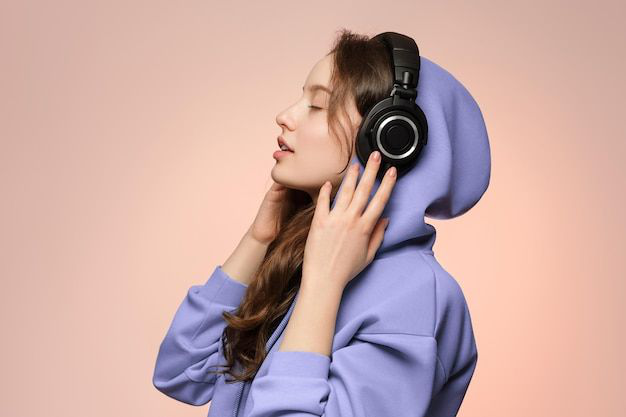
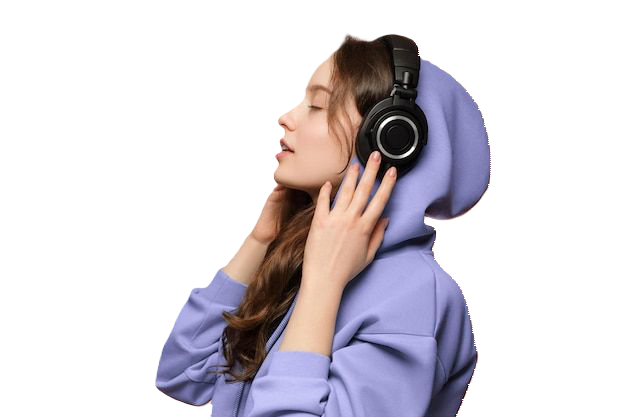
commerce update

diff --git a/src/App/UI/Components/Pages/Categories/Categories.js b/src/App/UI/Components/Pages/Categories/Categories.js
@@ -3,17 +3,18 @@ import { useNavigate } from 'react-router-dom';
 import './Categories.css';
 import Navbar from '../../Navbar/Navbar';
 import Footer from '../../Footer/Footer';
-import AOS from 'aos';
+// import AOS from 'aos';
 import 'aos/dist/aos.css';
 import Button from '../../Button/Button';
 import { categories } from '../../../../Constants/data';
 import ProductCard from '../../ProductCard/ProductCard';
+import female from '../../../../Images/png/female.png'
 
 function Categories() {
 
-    useEffect(() => {
-        AOS.init({ duration: 1000 });
-    }, []);
+    // useEffect(() => {
+    //     AOS.init({ duration: 1000 });
+    // }, []);
 
     return (
         <>
@@ -21,22 +22,44 @@ function Categories() {
             <div className='Categories'>
                 <div className='first-box'>
                     <div className='box-details'>
-                        <div className='boxep' data-aos='fade-up'>
+                        <div className='boxep'>
                             <div className='box-para'>
-                                <p>Grab Up to 50% Offon Selected Headphones</p>
+                                <p>Grab Up to 50% Off On Selected Headphones</p>
                             </div>
-                            <Button type='button' text={'Buy Now'} class='buy-now' />
+                            <div className='cat-button'>
+                                <Button type='button' text={'Buy Now'} class='buy-now' />
+                            </div>
+                        </div>
+                        <div className='picture'>
+                            <img src={female} alt='' className='cat-image' />
                         </div>
                     </div>
                 </div>
                 <div className='products'>
                     <div className='headphones'>
                         <div className='product-title'>
-                            <h4>Headphones For You</h4>
-                            <div className='product-card'>
-                                <ProductCard productImage='' productName='' price='' properties='' ratings='' type='' text={''} altText='Product Image' />
-                            </div>
+                            <h4>Headphones For You!</h4>
                         </div>
+                        <div className='product-card'>
+                            <ProductCard productImage='' productName='' price='' properties='' ratings='' type='' text={''} altText='Product Image' />
+                            <ProductCard productImage='' productName='' price='' properties='' ratings='' type='' text={''} altText='Product Image' />
+                            <ProductCard productImage='' productName='' price='' properties='' ratings='' type='' text={''} altText='Product Image' />
+                            <ProductCard productImage='' productName='' price='' properties='' ratings='' type='' text={''} altText='Product Image' />
+                            <ProductCard productImage='' productName='' price='' properties='' ratings='' type='' text={''} altText='Product Image' />
+                            <ProductCard productImage='' productName='' price='' properties='' ratings='' type='' text={''} altText='Product Image' />
+                        </div>
+                    </div>
+                    <div className='similar'>
+                        <div className='similar-title'>
+                            <h4>Similar Items You Might Like</h4>
+                        </div>
+                        <div className='similar-card'></div>
+                    </div>
+                    <div className='recently'>
+                        <div className='recently-title'>
+                            <h4>Recently viewed</h4>
+                        </div>
+                        <div className='recently-card'></div>
                     </div>
                 </div>
             </div>

diff --git a/src/App/UI/Components/Pages/Categories/Categories.css b/src/App/UI/Components/Pages/Categories/Categories.css
@@ -1,0 +1,87 @@
+.first-box {
+    justify-content: center;
+    align-items: center;
+    background-color: rgb(238, 238, 201);
+    margin-left: 104.5px;
+    margin-right: 104.5px;
+}
+
+.box-details {
+    display: flex;
+    gap: 300px;
+}
+
+.boxep {
+    margin-top: 2px;
+    margin-left: 90px;
+    padding: 10px;
+}
+
+.picture img {
+    max-width: 350px;
+}
+
+.box-para {
+    max-width: 370px;
+}
+
+.box-para p {
+    font-size: 30px;
+    font-weight: 650;
+    color: rgb(3, 58, 3);
+}
+
+.cat-button {
+    margin-top: -10px
+}
+
+.products {
+    margin-left: 104.5px;
+    margin-top: 50px;
+}
+
+.product-card {
+    display: flex;
+}
+
+.product-title h4 {
+    font-size: 20px;
+    font-family: 'Franklin Gothic Medium', 'Arial Narrow', Arial, sans-serif;
+}
+
+.recently-title h4 {
+    font-size: 20px;
+    font-family: 'Franklin Gothic Medium', 'Arial Narrow', Arial, sans-serif;
+}
+
+.similar-title h4 {
+    font-size: 20px;
+    font-family: 'Franklin Gothic Medium', 'Arial Narrow', Arial, sans-serif;
+}
+
+.picture {
+    position: relative;
+    display: inline-block;
+}
+
+.cat-image {
+    display: block;
+    width: 100%;
+    height: auto;
+    object-fit: cover;
+}
+
+/* .picture::before {
+    content: '';
+    position: absolute;
+    top: 0;
+    left: 0;
+    width: 100%;
+    background-color: inherit;
+    z-index: 0;
+} */
+
+.cat-image {
+    position: relative;
+    z-index: 1;
+}

diff --git a/src/App/UI/Components/Navbar/Navbar.js b/src/App/UI/Components/Navbar/Navbar.js
@@ -5,19 +5,19 @@ import { RxPerson } from "react-icons/rx";
 import { IoSearchOutline } from "react-icons/io5";
 import pageLogo from "../../../Images/png/17201701.png";
 import { BsTelephone } from "react-icons/bs";
-// import { useNavigate } from 'react-router-dom';
-//import { BrowserRouter as Router, Routes, Route, Link, useNavigate } from 'react-router-dom';
+import { useNavigate } from 'react-router-dom';
+// import { BrowserRouter as Router, Routes, Route, Link, useNavigate } from 'react-router-dom';
 
 function Navbar() {
 
     // const navigate = useNavigate();
 
-    // const handleNavigation = () => {
-    //     navigate('/home');
+    // const handleHomeClick = () => {
+    //     navigate('/');
     // };
 
-    
-// onMouseEnter={toggleDropdown} onMouseLeave={toggleDropdown}
+
+    // onMouseEnter={toggleDropdown} onMouseLeave={toggleDropdown}
     // const [isDropdownOpen, setIsDropdownOpen] = useState(false);
 
     // const toggleDropdown = () => {
@@ -66,7 +66,7 @@ function Navbar() {
 
                 </div>
                 <div className='real-content'>
-                    <a><img src={pageLogo} alt='' height="100px" width="100px"  /></a>
+                    <a><img src={pageLogo} alt='' height="100px" width="100px" /></a>
 
                     <div className='nav-links'>
                         <nav>

diff --git a/src/App/UI/Components/Pages/Home/Home.css b/src/App/UI/Components/Pages/Home/Home.css
@@ -15,7 +15,7 @@
 }
 
 .home-content {
-    background: url('https://t3.ftcdn.net/jpg/06/28/25/36/360_F_628253694_Czf6Y1SnQnIVUAL0tsOWXh2loOdsIFzS.jpg');
+    background: url('https://assets-global.website-files.com/63e857eaeaf853471d5335ff/63e9b930e006824963189865_bg-stage.png');
     background-size: cover;
     background-position: center;
     background-repeat: no-repeat;
@@ -102,6 +102,7 @@
     align-items: center;
     justify-content: center;
     margin-left: -102.5px;
+    color: #797777;
 }
 
 .info-cards {

diff --git a/src/App/UI/AppEntry.js b/src/App/UI/AppEntry.js
@@ -1,5 +1,5 @@
 import React from 'react';
-//import IndexRouter from '../Route/IndexRouter';
+import IndexRouter from '../Route/IndexRouter';
 import Home from '../UI/Components/Pages/Home/Home';
 import Categories from './Components/Pages/Categories/Categories';
 
@@ -7,8 +7,8 @@ function AppEntry() {
     return (
         <div>
             {/* <IndexRouter /> */}
-            {/* <Home /> */}
-            <Categories />
+            <Home />
+            {/* <Categories /> */}
         </div>
     )
 }

diff --git a/src/App/Route/IndexRouter.js b/src/App/Route/IndexRouter.js
@@ -7,7 +7,7 @@ function App() {
   return (
     <Router>
       <Routes>
-        <Route path="/home" element={Home} />
+        <Route path="/" element={Home} />
         <Route path="/categories" element={Categories} />
         {/* Other routes */}
       </Routes>
